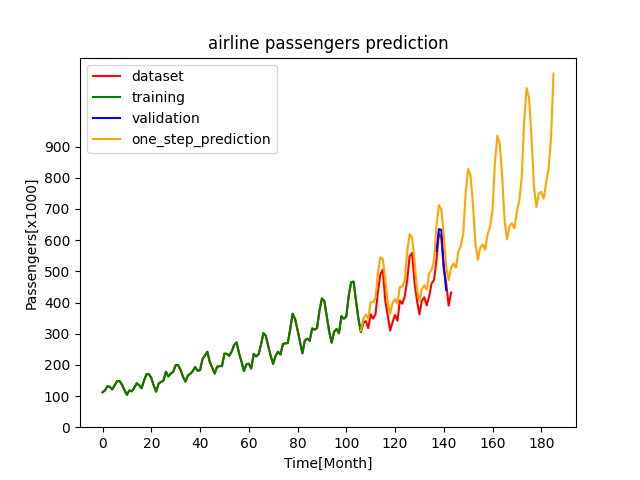
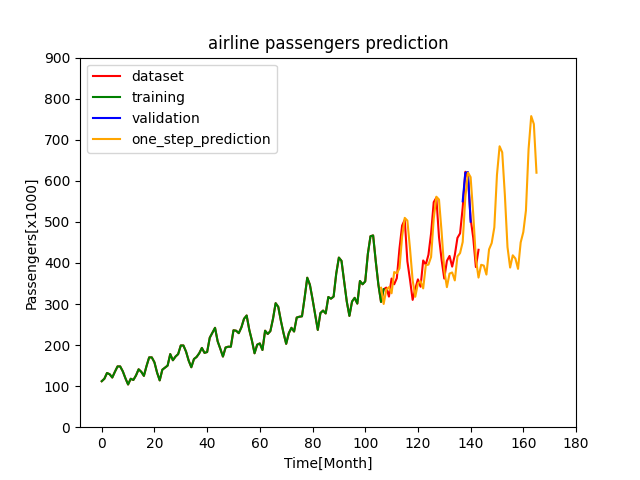
refactor airlinePassengers_pytorch

diff --git a/TimeSeries/UnivariatTimeSeriesForecast/AirlinePassengers/Pytorch/FF/airline_passengers_pytorch_ff_workflow.py b/TimeSeries/UnivariatTimeSeriesForecast/AirlinePassengers/Pytorch/FF/airline_passengers_pytorch_ff_workflow.py
@@ -1,0 +1,80 @@
+import numpy as np
+import pandas as pd
+import torch
+import matplotlib.pyplot as plt
+from torch.utils.data import DataLoader, TensorDataset
+from TimeSeries.UnivariatTimeSeriesForecast.AirlinePassengers.airline_passengers_utilities import \
+    AirlinePassengersDataSet, TimeSeriesGenerator
+from yaml_parser import get_hyperparameters
+
+
+def workflow(model):
+    airline_passengers = AirlinePassengersDataSet()
+    train = airline_passengers.get_train_data()
+    test = airline_passengers.get_test_data()
+
+    hyperparameters: dict = get_hyperparameters("airline_passengers_pytorch_ff_hyperparameter.yaml")
+
+    train_timeseries, train_targets = TimeSeriesGenerator(train, hyperparameters["look_back"],
+                                                          hyperparameters["look_out"]).create_timeseries()
+    test_timeseries, test_targets = TimeSeriesGenerator(test, hyperparameters["look_back"],
+                                                        hyperparameters["look_out"]).create_timeseries()
+
+    train_timeseries_tensor = torch.tensor(train_timeseries, dtype=torch.float)
+    train_targets_tensor = torch.tensor(train_targets, dtype=torch.float)
+    test_timeseries_tensor = torch.tensor(test_timeseries, dtype=torch.float)
+    test_targets_tensor = torch.tensor(test_targets, dtype=torch.float)
+
+    train_loader = DataLoader(dataset=TensorDataset(train_timeseries_tensor, train_targets_tensor),
+                              batch_size=hyperparameters["batch_size"], shuffle=True)
+    test_loader = DataLoader(dataset=TensorDataset(test_timeseries_tensor, test_targets_tensor),
+                             batch_size=hyperparameters["batch_size"], shuffle=True)
+
+    for epoch in range(hyperparameters["epochs"]):
+        model.backward(train_loader, epoch, hyperparameters["epochs"])
+        model.validate(test_loader)
+
+    validation_results = validation_forecast(model, test_timeseries_tensor)
+    validation = pd.DataFrame()
+    validation["validation"] = validation_results
+    validation.index += airline_passengers.threshold + hyperparameters["look_back"]
+
+    start_index = -1
+    start_value = torch.Tensor(train_timeseries_tensor[start_index])
+    prediction_results = one_step_ahead_forecast(model, start_value, hyperparameters["number_of_predictions"])
+
+    prediction = pd.DataFrame()
+    prediction["one_step_prediction"] = prediction_results
+    prediction.index += airline_passengers.threshold + start_index
+
+    plt.plot(airline_passengers.data["Passengers"], color="red", label="dataset")
+    plt.plot(airline_passengers.get_train_data(), color="green", label="training")
+    plt.plot(validation["validation"], color="blue", label="validation")
+    plt.plot(prediction["one_step_prediction"], color="orange", label="one_step_prediction")
+    plt.title("airline passengers prediction")
+    plt.xlabel("Time[Month]")
+    plt.ylabel("Passengers[x1000]")
+    plt.xticks(range(0, 200, 20))
+    plt.yticks(range(0, 1000, 100))
+    plt.legend(loc="upper left")
+    plt.savefig("./airlinePassengers_pytorch_ff.png")
+    plt.show()
+
+
+def validation_forecast(model, inputs):
+    predictions = []
+    for element in inputs:
+        prediction = model(element)
+        predictions.append(prediction.item())
+    return predictions
+
+
+def one_step_ahead_forecast(model, current_value, number_of_predictions):
+    one_step_ahead_forecast = list()
+    for element in range(0, number_of_predictions):
+        prediction = model(torch.Tensor(current_value))
+        one_step_ahead_forecast.append(prediction.item())
+        current_value = np.delete(current_value, 0)
+        current_value = np.append(current_value, prediction.item())
+        current_value = current_value.reshape(1, 1, current_value.shape[0])
+    return one_step_ahead_forecast

diff --git a/TimeSeries/UnivariatTimeSeriesForecast/AirlinePassengers/Pytorch/FF/airline_passengers_pytorch_ff_model.py b/TimeSeries/UnivariatTimeSeriesForecast/AirlinePassengers/Pytorch/FF/airline_passengers_pytorch_ff_model.py
@@ -1,0 +1,45 @@
+import torch
+import torch.nn as nn
+from yaml_parser import get_hyperparameters
+
+hyperparameters: dict = get_hyperparameters("airline_passengers_pytorch_ff_hyperparameter.yaml")
+
+
+class FeedForwardModel(nn.Module):
+    def __init__(self):
+        super().__init__()
+        self.linear1 = nn.Linear(30, 50)
+        self.linear2 = nn.Linear(50, 1)
+        self.loss_function = nn.MSELoss()
+        self.optimizer_function = torch.optim.Adam(self.parameters(), lr=hyperparameters["learning_rate"])
+
+    def forward(self, inputs):
+        inputs = self.linear1(inputs)
+        inputs = self.linear2(inputs)
+        return inputs
+
+    def backward(self, train_loader, epoch, num_epochs):
+        self.train()
+        cumulative_loss = 0
+
+        for x_values, y_values in train_loader:
+            prediction = self.forward(x_values)
+            loss = self.loss_function(prediction, y_values)
+            loss.backward()
+            self.optimizer_function.step()
+            self.optimizer_function.zero_grad()
+            cumulative_loss += loss.item()
+
+        print(f"Epoch [{epoch + 1}/{num_epochs}]")
+        print(f"Train Loss: {cumulative_loss / len(train_loader):.4f}")
+
+    def validate(self, val_loader):
+        self.eval()
+        loss = 0
+
+        with torch.no_grad():
+            for x_values, y_values in val_loader:
+                prediction = self.forward(x_values)
+                loss += self.loss_function(prediction, y_values).item()
+
+        print(f'Validation Loss: {loss / len(val_loader):.4f}')

diff --git a/TimeSeries/UnivariatTimeSeriesForecast/AirlinePassengers/Pytorch/FF/airline_passengers_pytorch_ff_run.py b/TimeSeries/UnivariatTimeSeriesForecast/AirlinePassengers/Pytorch/FF/airline_passengers_pytorch_ff_run.py
@@ -1,0 +1,8 @@
+from TimeSeries.UnivariatTimeSeriesForecast.AirlinePassengers.Pytorch.FF.airline_passengers_pytorch_ff_model import \
+    FeedForwardModel
+from TimeSeries.UnivariatTimeSeriesForecast.AirlinePassengers.Pytorch.FF.airline_passengers_pytorch_ff_workflow import \
+    workflow
+
+if __name__ == "__main__":
+    model = FeedForwardModel()
+    workflow(model)
